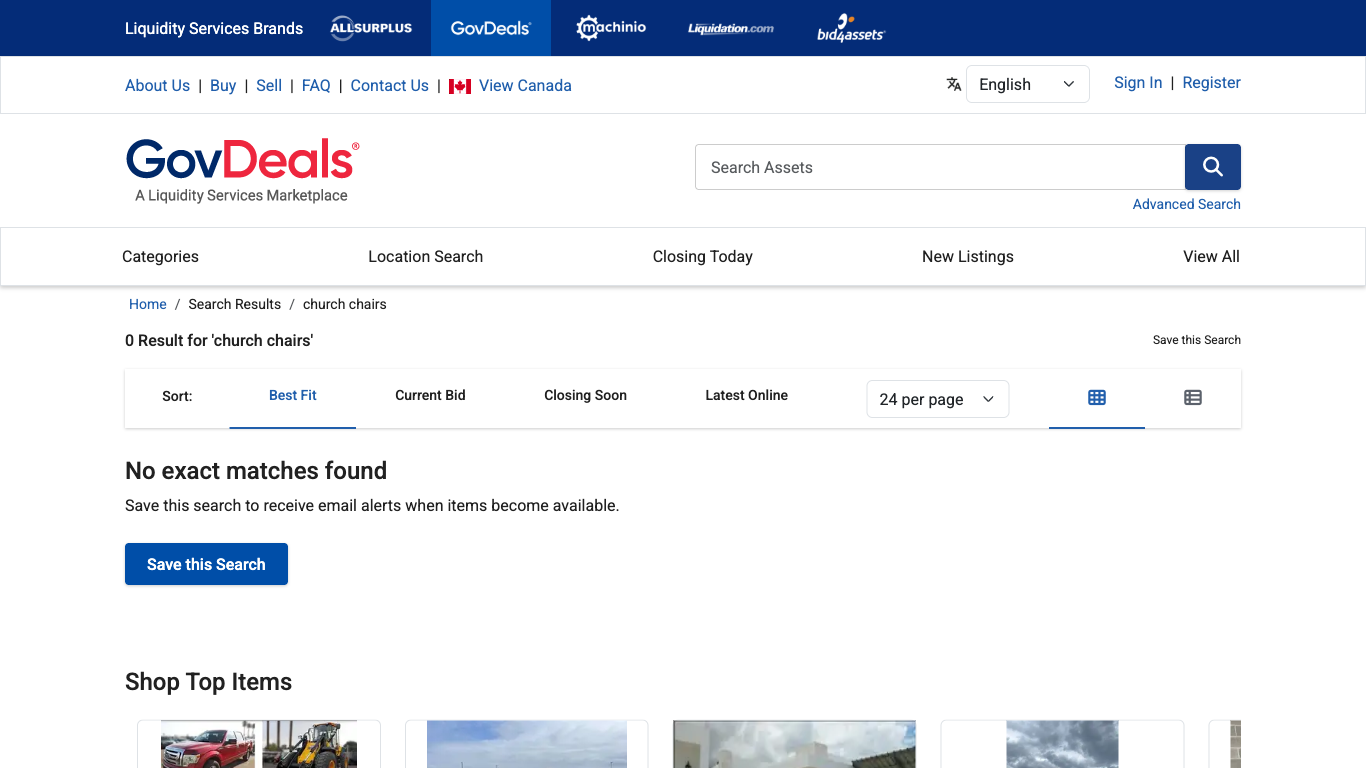
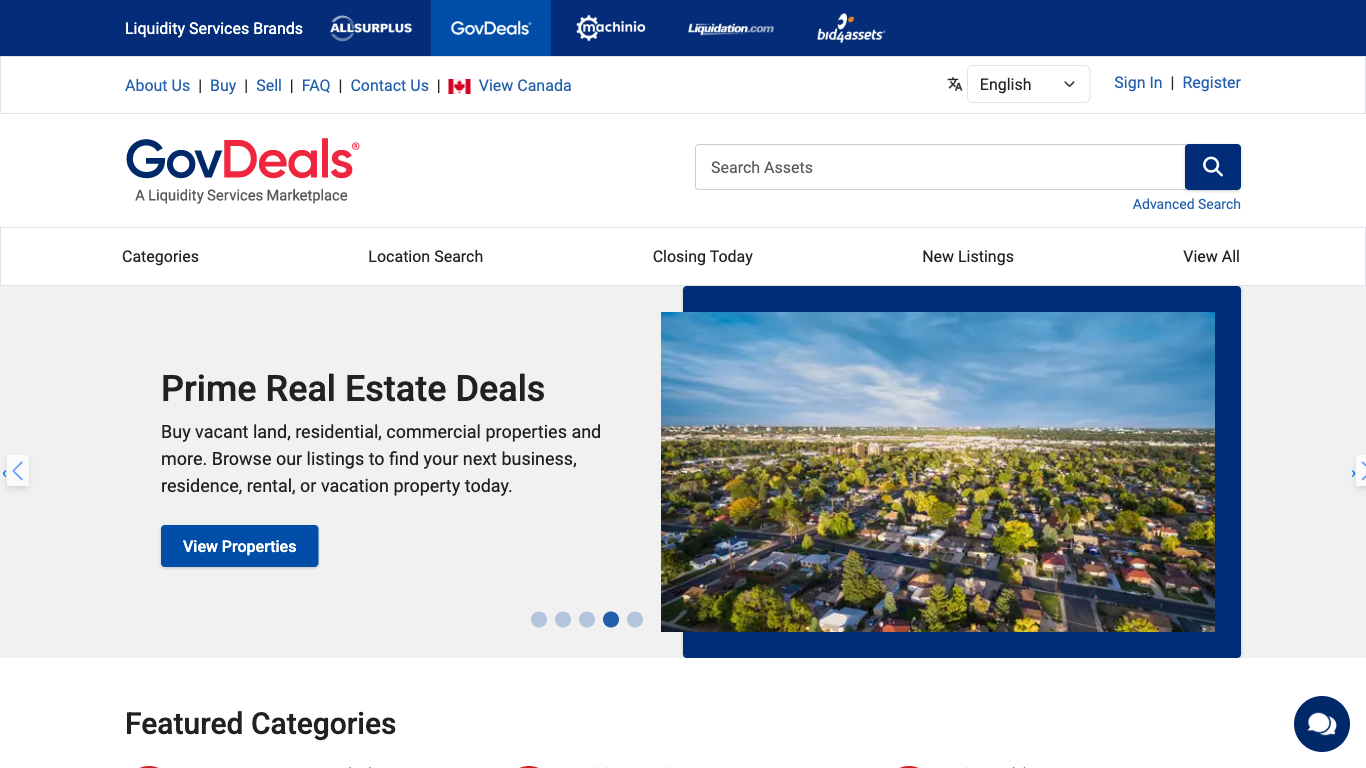
fix(auction_extractors): repair GovDeals search after site change
The GovDeals Angular app moved/renamed its search params; the old scraper
was silently fetching the entire ~25k-item catalog instead of filtering,
then paginating through 200+ pages of cars and heavy equipment.

- Search URL: /browse/search?keyword= → /search?kWord= (verified against
  the live site 2026-06-01). The old keyword/keyWord params are silently
  ignored by the SPA. numPerPage/sortBy are also ignored (page size is
  fixed at 24 client-side), so they're no longer sent.
- Encoding: quote_plus → quote(safe="") so spaces become %20, not + (the
  Angular router reads + literally and would search "banquet+chairs").
- Result-card selector: #myTabContent .card-search → .card-search (the
  old wrapper shell no longer exists on /search).
- Pagination: drop the never-settling networkidle wait; poll the first
  card's asset link to detect a real page change (~1s vs 15s/page). Cap
  at GOVDEALS_MAX_PAGES (default 10) so a bad search can't walk forever.
- Cards missing location/price/lot now use a 1.5s soft-timeout instead of
  hanging 30s and dropping the whole card.
- New knobs: GOVDEALS_SEARCH_TERMS (targeted runs), GROQ_MODEL (point
  quantity extraction at the non-hallucinating gpt-oss-120b), and read
  GOVDEALS_USE_BROWSE_SEARCH_URL at call time so .env is respected.
- Docs/scripts: update hardcoded repo paths after the Desktop → projects
  move; gitignore .DS_Store.

diff --git a/auction_extractors/govdeals_chairs_extraction.py b/auction_extractors/govdeals_chairs_extraction.py
@@ -72,6 +72,12 @@ SEARCH_TERMS = [
     "procedure chair", "exam table",
 ]
 
+# Allow a comma-separated override so a targeted run (e.g. just "banquet chairs")
+# is possible without editing this list: GOVDEALS_SEARCH_TERMS="banquet chairs,church chairs"
+_terms_override = os.getenv("GOVDEALS_SEARCH_TERMS", "").strip()
+if _terms_override:
+    SEARCH_TERMS = [t.strip() for t in _terms_override.split(",") if t.strip()]
+
 
 
 def _govdeals_search_cards_locator(page):
@@ -135,14 +141,19 @@ def _scrape_one_page(page) -> list:
             title = title_element.inner_text().strip()
             link = title_element.get_attribute('href')
 
-            location_element = card.locator('p[name="pAssetLocation"]')
-            location = location_element.inner_text().strip()
+            # Optional fields: some cards (sponsored/closed lots) omit the
+            # location/price/lot elements. Read them with a short timeout so a
+            # missing element costs ~1.5s, not the default 30s, and never drops
+            # the whole card.
+            def _soft(selector: str) -> str:
+                try:
+                    return card.locator(selector).first.inner_text(timeout=1500).strip()
+                except Exception:
+                    return ""
 
-            price_element = card.locator('p[name="pAssetCurrentBid"]')
-            price = price_element.inner_text().strip()
-
-            lot_element = card.locator('p:has-text("Lot#:")')
-            lot_text = lot_element.inner_text().strip()
+            location = _soft('p[name="pAssetLocation"]')
+            price = _soft('p[name="pAssetCurrentBid"]')
+            lot_text = _soft('p:has-text("Lot#:")')
             lot_number = lot_text.replace('Lot#:', '').strip()
 
             end_date = ""
@@ -405,6 +416,17 @@ def _go_to_next_page(page) -> bool:
         print(f"   [pagination] next disabled (class={cls!r}, aria-disabled={aria_disabled!r}) — last page")
         return False
 
+    # Capture the first result card's asset link BEFORE clicking, so we can
+    # detect a real page change (and the last page, where the Next control can
+    # persist but no-op).
+    cards = _govdeals_search_cards_locator(page)
+    before = ""
+    try:
+        if cards.count() > 0:
+            before = cards.first.locator("a[href*='/asset/']").first.get_attribute("href") or ""
+    except Exception:
+        before = ""
+
     try:
         # Some Angular pagination components only respond to clicking the
         # inner anchor, others respond to the <li>. Try the anchor first,
@@ -417,14 +439,19 @@ def _go_to_next_page(page) -> bool:
         print(f"   [pagination] click failed: {e}")
         return False
 
-    # networkidle frequently times out on Angular SPAs that stream XHRs;
-    # treat that as best-effort, not fatal.
-    try:
-        page.wait_for_load_state("networkidle", timeout=15000)
-    except Exception as e:
-        print(f"   [pagination] networkidle timeout (continuing anyway): {e}")
-    page.wait_for_timeout(1500)
-    return True
+    # GovDeals streams XHRs, so networkidle never settles — waiting on it just
+    # burns 15s/page. Poll the first card's asset link instead: when it changes,
+    # the next page has rendered. If it never changes, we're on the last page.
+    for _ in range(40):  # ~8s max (40 × 200ms); usually resolves in <1s
+        page.wait_for_timeout(200)
+        try:
+            now_first = cards.first.locator("a[href*='/asset/']").first.get_attribute("href") or ""
+        except Exception:
+            now_first = before
+        if now_first and now_first != before:
+            return True
+    print("   [pagination] first card unchanged after Next — treating as last page")
+    return False
 
 
 def scrape_listings():
@@ -444,8 +471,9 @@ def scrape_listings():
                 print(f"\n → Filter: '{term}'")
                 prepare_govdeals_search_page(page, term, script_dir=REPORTS_DIR)
                 page_num = 1
+                max_pages = int(os.getenv("GOVDEALS_MAX_PAGES", "10"))
 
-                while True:
+                while page_num <= max_pages:
                     page_cards = _scrape_one_page(page)
                     if not page_cards:
                         if page_num == 1:
@@ -455,6 +483,9 @@ def scrape_listings():
                     quantities = [c["quantity"] for c in page_cards]
                     print(f"   Page {page_num}: {len(page_cards)} listings, quantities: {quantities}")
 
+                    if page_num >= max_pages:
+                        print(f"   [pagination] hit GOVDEALS_MAX_PAGES={max_pages} for '{term}' — stopping (more pages may exist)")
+                        break
                     if not _go_to_next_page(page):
                         break
                     page_num += 1

diff --git a/auction_extractors/govdeals_playwright_helpers.py b/auction_extractors/govdeals_playwright_helpers.py
@@ -15,7 +15,7 @@ import os
 import re
 import time
 from pathlib import Path
-from urllib.parse import quote_plus
+from urllib.parse import quote
 
 from playwright.sync_api import Browser, BrowserContext, Locator, Page
 
@@ -122,21 +122,22 @@ def _govdeals_blocked(page: Page) -> bool:
 
 
 def _govdeals_search_urls(keyword_q: str) -> list[str]:
-    """Try alternate query param names (all under /en).
+    """Search-results URLs for ``keyword_q`` (already %20-encoded).
 
-    Always requests the largest reasonable page size so we don't have to
-    paginate through 25 pages of 24 results each. Override with the
-    ``GOVDEALS_NUM_PER_PAGE`` env var (default 100). GovDeals supports values
-    of 12 / 24 / 48 / 96 / 100 in its UI dropdown — pick the highest the
-    server still honors. Also requests sort=newest so we see fresh inventory
-    first; that's incidental but useful.
+    The keyword param is ``kWord`` — verified 2026-06-01 by driving the live
+    site's search box and capturing the navigation. ``?keyword=`` / ``?q=`` are
+    SILENTLY IGNORED by GovDeals' Angular app: it returns the entire ~25k-item
+    catalog instead of filtering, which is why earlier runs walked 200+ pages of
+    cars/heavy-equipment. ``numPerPage`` / ``sortBy`` are likewise ignored by the
+    SPA (page size is fixed at 24 client-side), so we don't send them.
+
+    Space must be ``%20`` (caller uses ``quote``): the Angular router reads ``+``
+    literally, so ``?kWord=banquet+chairs`` would search the literal string
+    "banquet+chairs" and miss.
     """
-    base = f"{GOVDEALS_SITE_ORIGIN}/browse/search"
-    num = os.getenv("GOVDEALS_NUM_PER_PAGE", "100")
-    extra = f"&numPerPage={num}&sortBy=newest"
+    base = f"{GOVDEALS_SITE_ORIGIN}/search"
     return [
-        f"{base}?keyword={keyword_q}{extra}",
-        f"{base}?keyWord={keyword_q}{extra}",
+        f"{base}?kWord={keyword_q}",
     ]
 
 
@@ -156,9 +157,8 @@ def _wait_for_govdeals_result_cards(
             raise TimeoutError(
                 "GovDeals blocked (Access Denied) while waiting for search results."
             )
-        n = page.locator("#myTabContent .card.card-search").count()
-        if n == 0:
-            n = page.locator("#myTabContent .card-search").count()
+        # /search no longer wraps results in #myTabContent; match cards directly.
+        n = page.locator(".card-search").count()
         if n > 0:
             return
         page.wait_for_timeout(450)
@@ -187,7 +187,8 @@ def open_govdeals_keyword_search_results(
     Does not use the homepage search box (avoids hydration / visibility issues).
     """
     shot = (script_dir / "govdeals_search_timeout.png") if script_dir else None
-    q = quote_plus(keyword.strip() or "chairs")
+    # quote (not quote_plus): GovDeals' kWord param needs %20 for spaces, not +.
+    q = quote(keyword.strip() or "chairs", safe="")
     urls = _govdeals_search_urls(q)
     last_err: Exception | None = None
 
@@ -206,8 +207,10 @@ def open_govdeals_keyword_search_results(
                         pass
                 continue
 
-            # Shell only — do NOT use ul.pagination here: it can exist before listing cards hydrate.
-            page.wait_for_selector("#myTabContent", state="attached", timeout=90000)
+            # Wait for the first result card to attach (the old #myTabContent
+            # shell no longer exists on /search). Don't use ul.pagination: it can
+            # exist before listing cards hydrate.
+            page.wait_for_selector(".card-search", state="attached", timeout=90000)
             page.wait_for_timeout(800)
             try:
                 page.wait_for_load_state("networkidle", timeout=25000)
@@ -328,7 +331,10 @@ def prepare_govdeals_search_page(
     Prefer direct browse URL; if ``GOVDEALS_USE_BROWSE_SEARCH_URL=0``, use homepage + fill.
     If the browse URL fails (layout change), fall back to homepage search once.
     """
-    if _GO_BROWSE:
+    # Read the flag at call time, not import time: the entrypoint loads .env
+    # (load_dotenv) *after* importing this module, so the module-level _GO_BROWSE
+    # would otherwise freeze to its default before .env is applied.
+    if int(os.getenv("GOVDEALS_USE_BROWSE_SEARCH_URL", str(_GO_BROWSE))):
         try:
             open_govdeals_keyword_search_results(page, keyword, script_dir=script_dir)
             return

diff --git a/auction_extractors/quantity_llm.py b/auction_extractors/quantity_llm.py
@@ -195,7 +195,13 @@ INPUT:
             elif prov == "groq":
                 if not groq_api_key:
                     raise ValueError("GROQ_API_KEY not set")
-                raw = _groq_chat(groq_api_key, prompt)
+                # GROQ_MODEL override: default llama-3.3-70b-versatile, but set
+                # GROQ_MODEL=openai/gpt-oss-120b for the model our quantity
+                # benchmark found doesn't hallucinate counts (see auction .env).
+                raw = _groq_chat(
+                    groq_api_key, prompt,
+                    model=os.getenv("GROQ_MODEL", "llama-3.3-70b-versatile"),
+                )
             elif prov == "ollama":
                 raw = _ollama_chat(ollama_base_url, ollama_model, prompt, ollama_timeout)
             elif prov == "claude_max":

diff --git a/README.md b/README.md
@@ -7,7 +7,7 @@ eBay drafts. Implements the pipeline described in
 ## Install
 
 ```bash
-cd /Users/abdelnasser/Desktop/Black_whole_projects/listing_automation
+cd /Users/abdelnasser/projects/blackwhole/listing_automation
 python3.11 -m venv .venv
 source .venv/bin/activate
 pip install -e '.[dev]'
@@ -159,7 +159,7 @@ require login.
 If you want a clean session with all permissions pre-allowed for this project:
 
 ```bash
-cd /Users/abdelnasser/Desktop/Black_whole_projects/listing_automation
+cd /Users/abdelnasser/projects/blackwhole/listing_automation
 claude --permission-mode bypassPermissions
 ```
 

diff --git a/CLAUDE.md b/CLAUDE.md
@@ -176,7 +176,7 @@ curl -X POST http://127.0.0.1:8765/api/runs/stdin \
 ## auction_extractors
 
 `auction_extractors/` is a **sibling package** copied in from its own
-project (upstream: `/Users/abdelnasser/Desktop/Black_whole_projects/auction_extractors`).
+project (upstream: `/Users/abdelnasser/projects/blackwhole/auction_extractors`).
 It scrapes GovDeals + Public Surplus for bulk chair lots, caches every
 listing in `auction_extractors/state/listings.db` as a permanent archive,
 and exposes a **read-only** `get_top_chairs()` — no UI.
